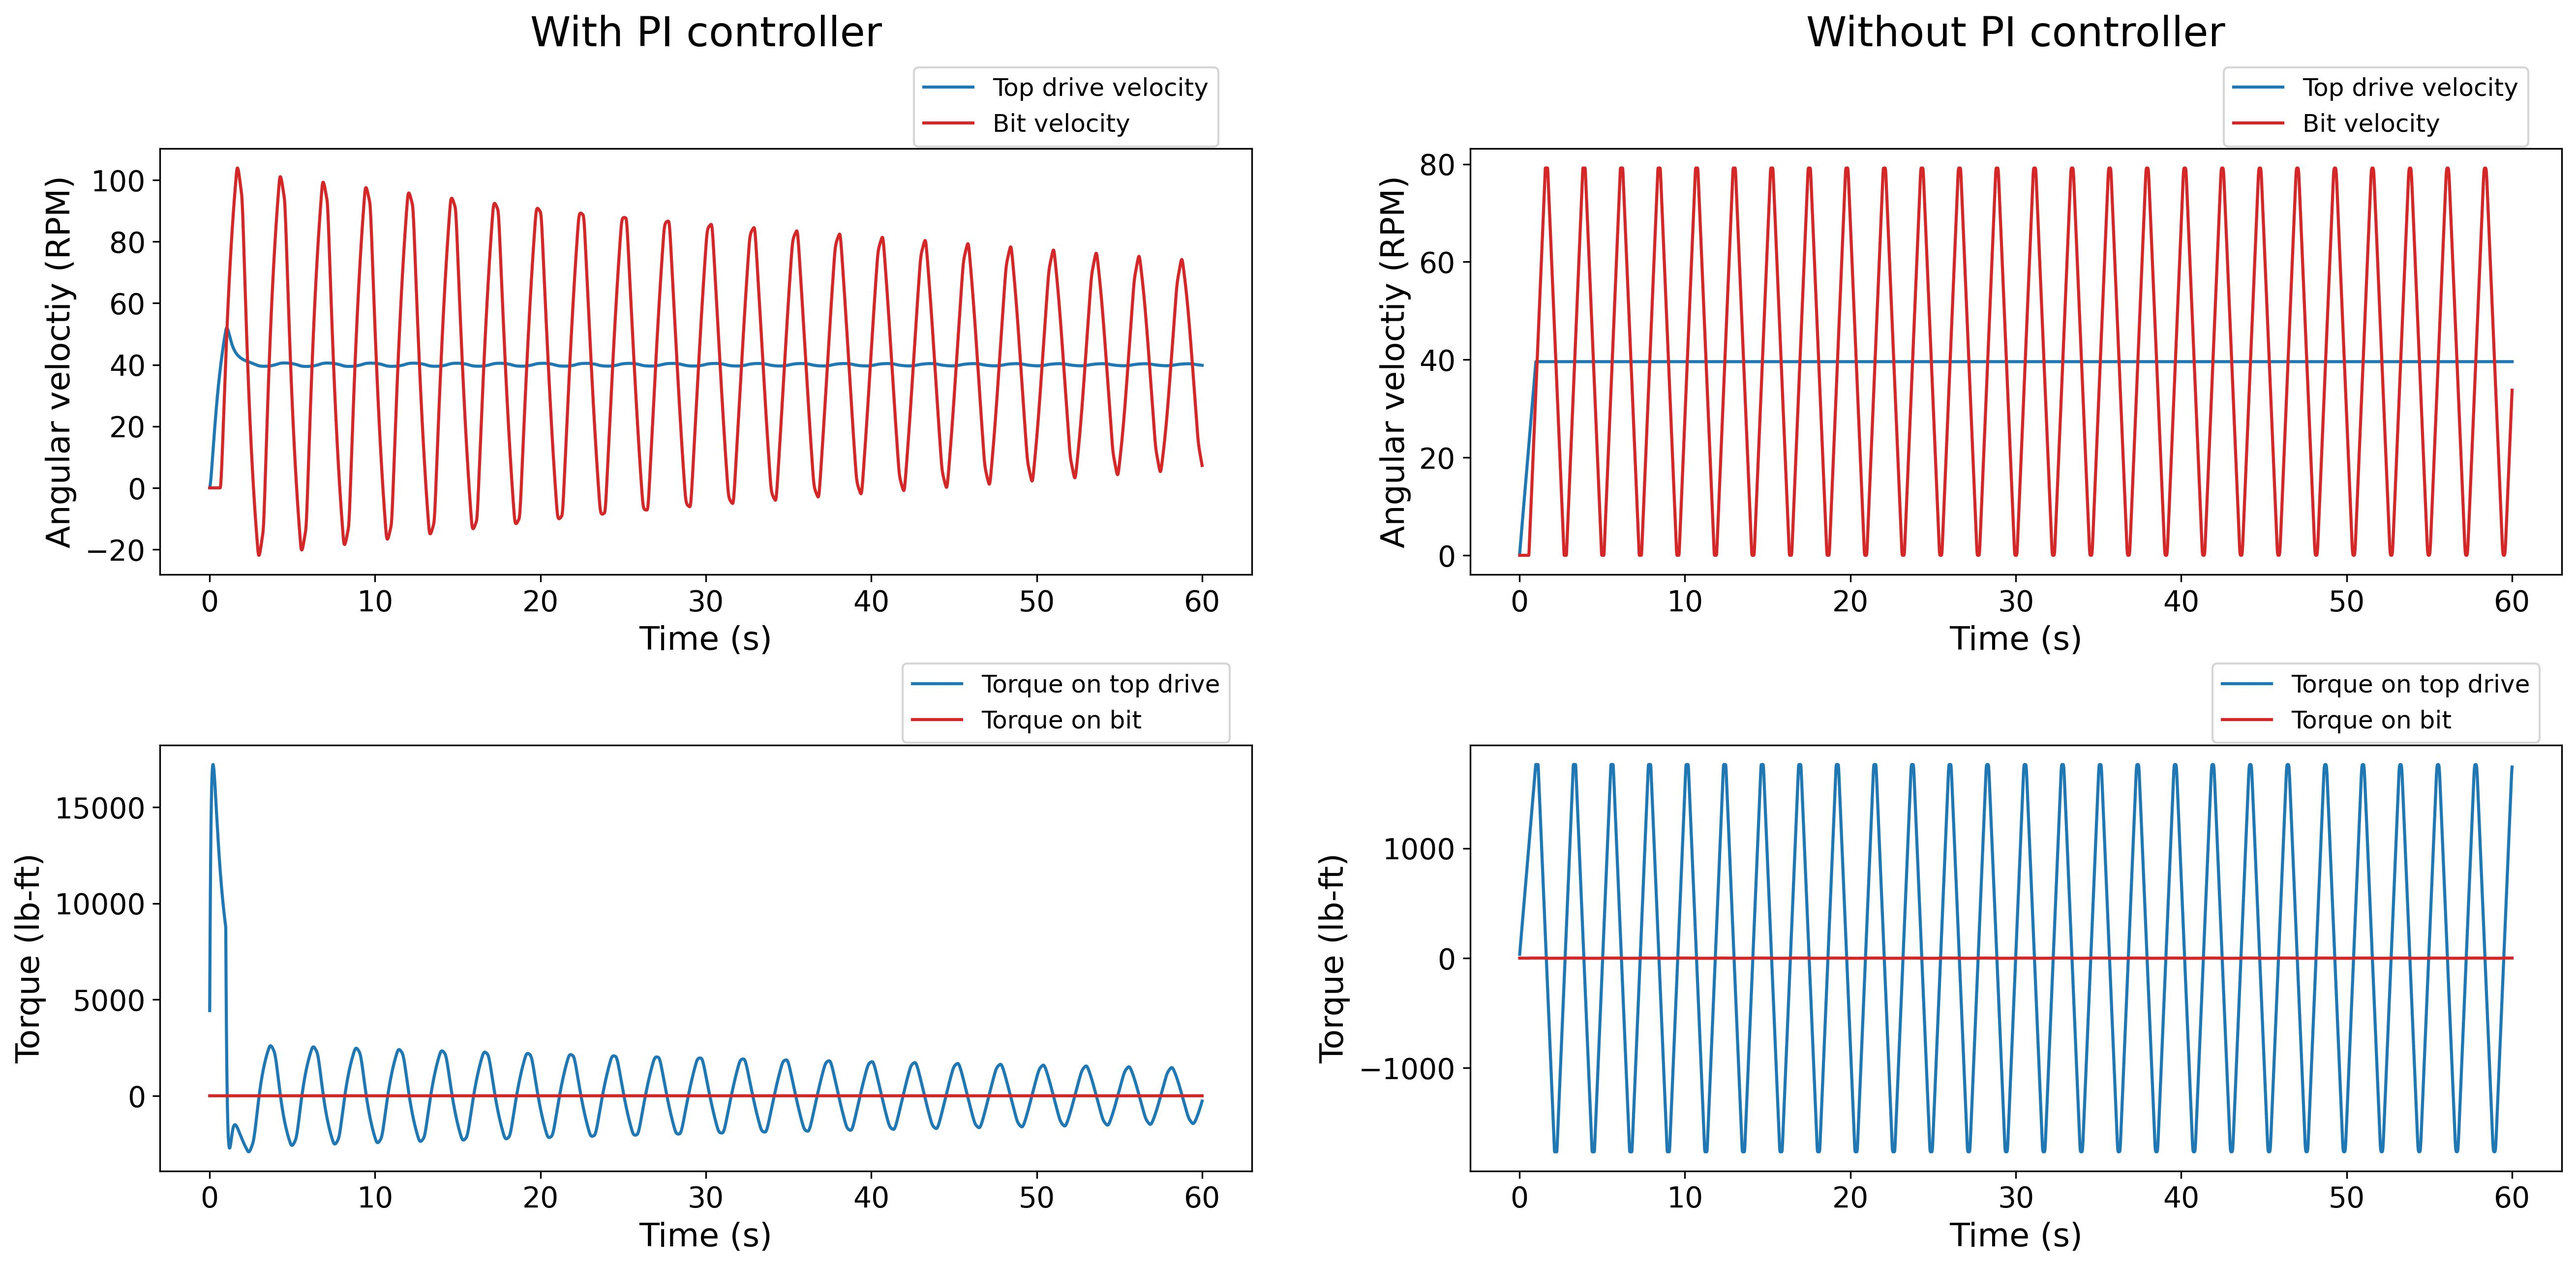
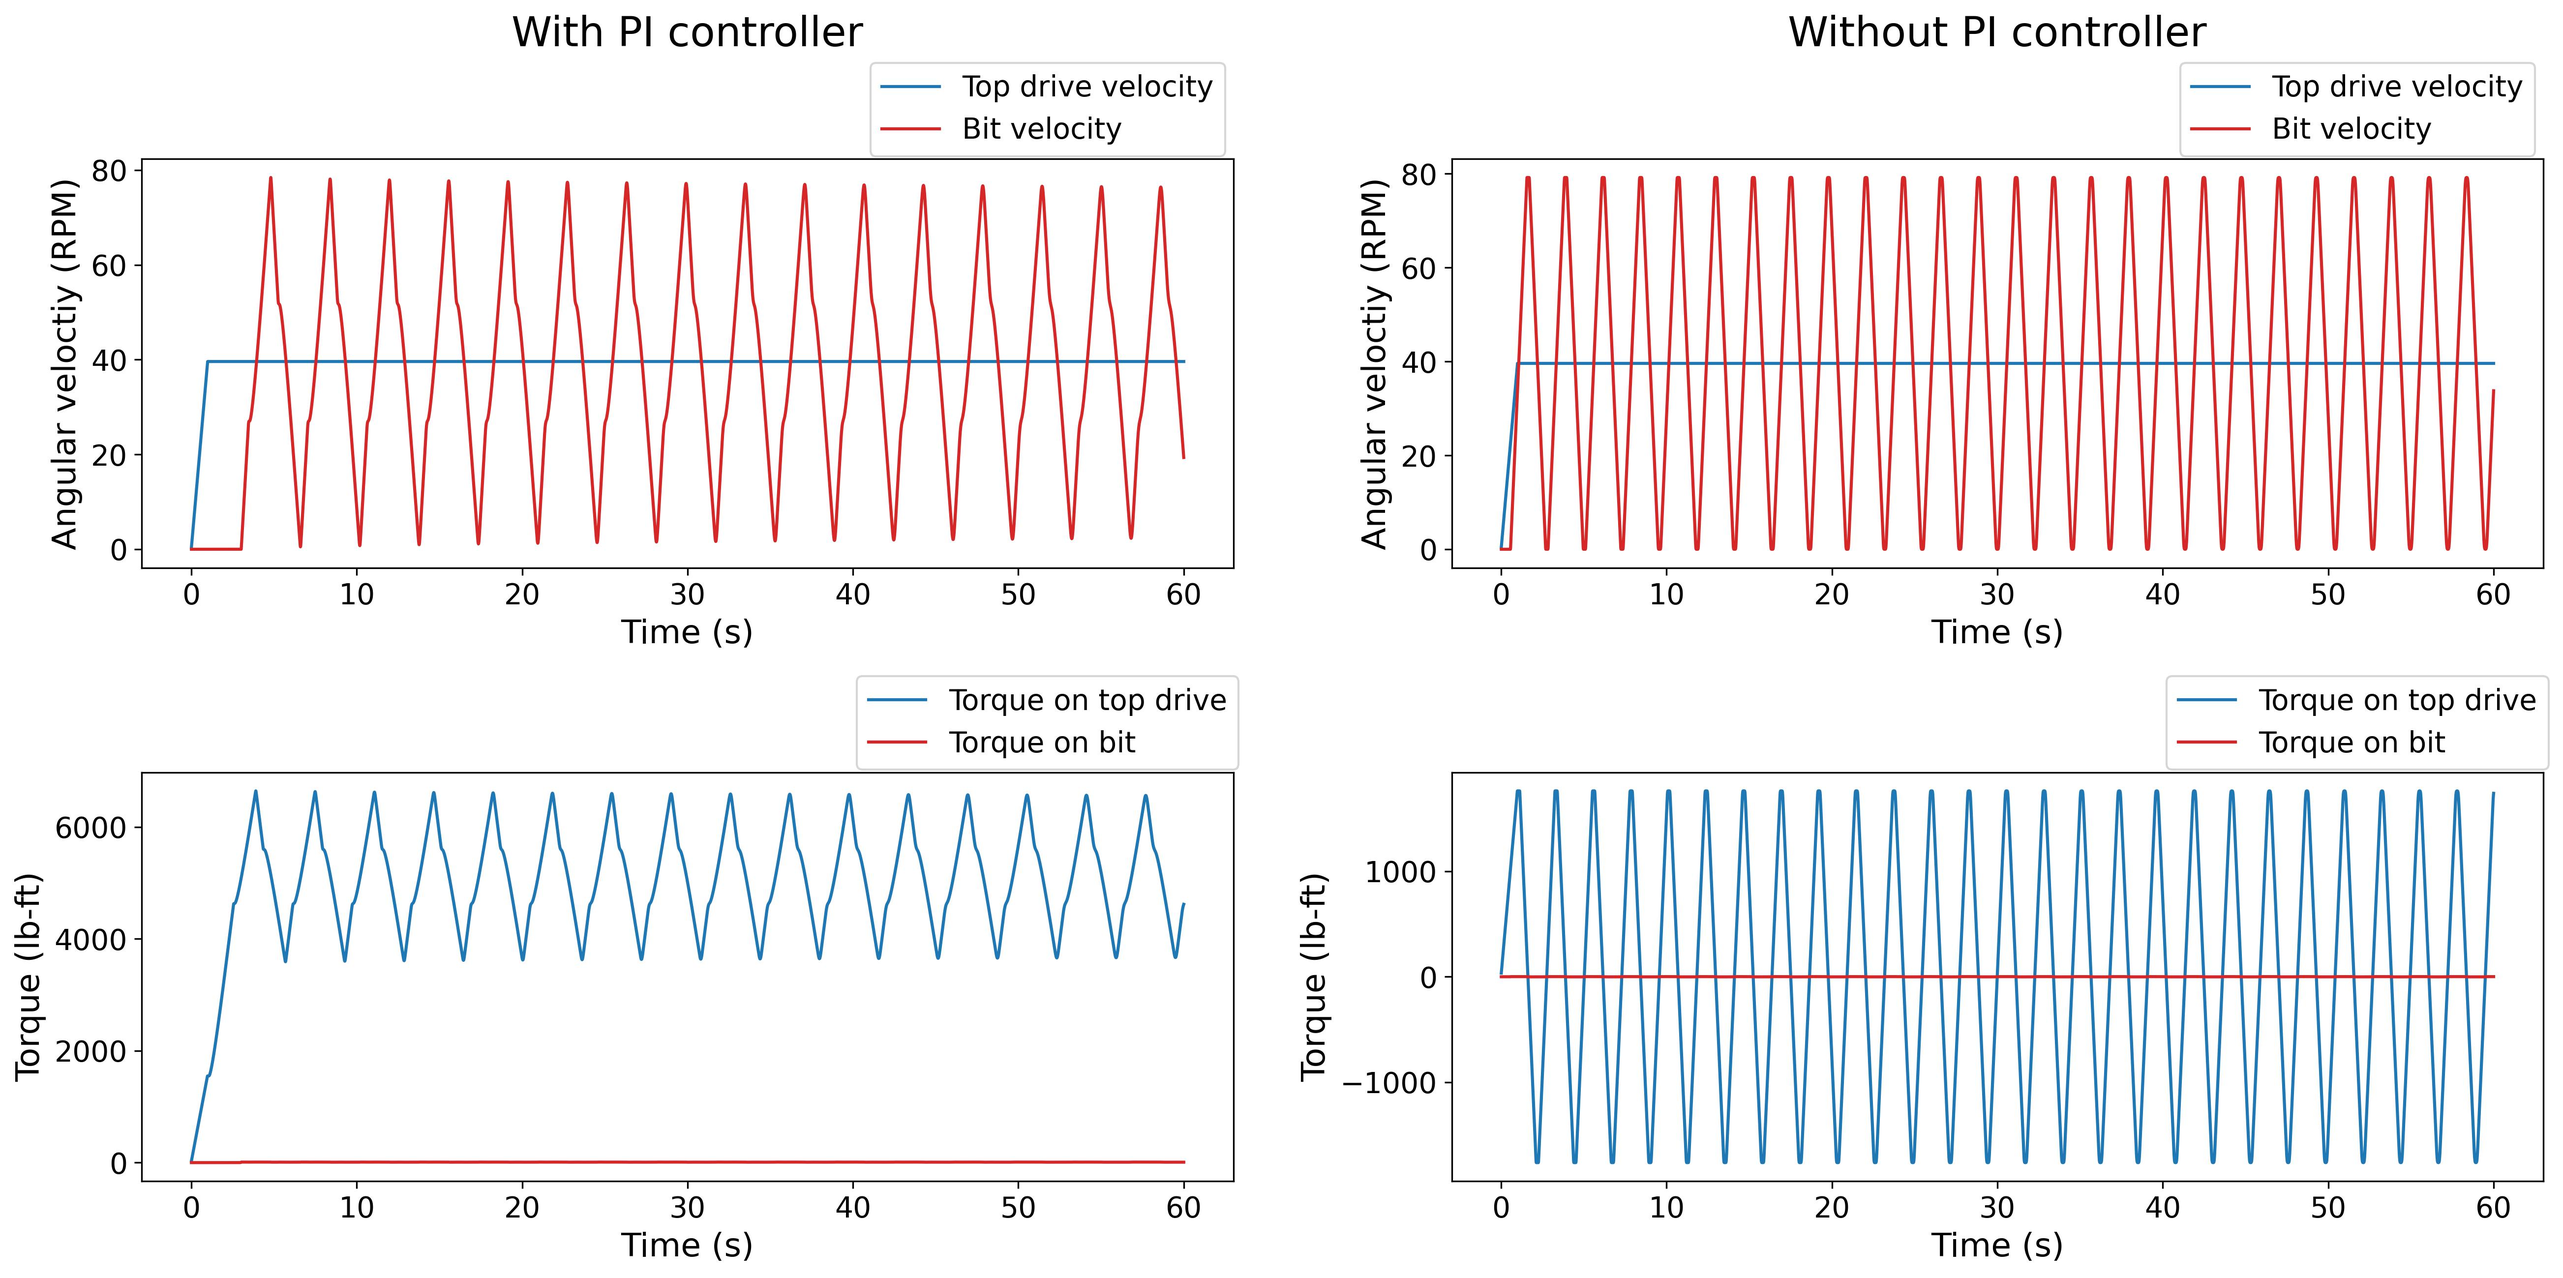
Addressing the commnets

diff --git a/src/Results and Comparisons.tex b/src/Results and Comparisons.tex
@@ -21,7 +21,7 @@ This Chapter contains results from both A-S and ExxonMobil models for all the Te
         Test Case 4b & Deviated (60\textdegree{}) & 0.5 & 0.25 & O \\                                                     
         \hline
     \end{tabular}
-    \caption[Input parameters of Aarsnes-Shor model (Python ver.)]{Input parameters of Aarsnes-Shor model. Well trajectory, top drive set velocity, and bit constant are the additional parameters not included in this table.}
+    \caption[Summary of characteristics of each Test Case]{Summary of characteristics of each Test Case.}
     \label{Test_case_summary}
 \end{table} 
 
@@ -37,7 +37,7 @@ The results for Test Case 1 in each model are depicted in \figurename~\ref{figur
 \begin{figure}
   \centering
   \includegraphics[width=6.5in]{overlapped_figureTestCase1}
-  \caption[Comparison of the results for Test Case 1]{Comparison between the results from A-S model (MATLAB ver.) and ExxonMobil model for Test Case 1.}\label{figure_testcase1_overlapped}
+  \caption[Comparison of the results for Test Case 1]{Comparison between the results from A-S model (MATLAB ver.) and ExxonMobil model for Test Case 1. The fundamental vibration frequency are 0.43 for both case }\label{figure_testcase1_overlapped}
 \end{figure}
 
 \section{Test Case 2}
@@ -135,17 +135,17 @@ The comparison between A-S, and ExxonMobil model are illustrated in \figurename~
         \hline
         \textbf{Test Cases} & \textbf{Frequency (Hz)} & \textbf{Max top drive torque (lb-ft)} & \textbf{Max bit velocity (RPM)}\\
         \hline
-        Test Case 1 & 0.433 & 1762 & 79\\
+        Test Case 1 & 0.440 & 1762 & 79\\
         \hline
         Test Case 2a & 0.283 & 6643 & 78\\
         \hline
-        Test Case 2b & 0.283 & 5184 & 106\\ 
+        Test Case 2b & 0.280 & 5184 & 106\\ 
         \hline
-        Test Case 3 & 0.417 & 1844 & 80 \\                                                  
+        Test Case 3 & 0.420 & 1844 & 80 \\                                                  
         \hline
-        Test Case 4a & 0.267 & 8083 & 78 \\                                                   
+        Test Case 4a & 0.268 & 8083 & 78 \\                                                   
         \hline
-        Test Case 4b & 0.267 & 7056 & 116\\                                                       
+        Test Case 4b & 0.268 & 7056 & 116\\                                                       
         \hline
     \end{tabular}
     \caption[Input parameters of Aarsnes-Shor model (Python ver.)]{Input parameters of Aarsnes-Shor model. Well trajectory, top drive set velocity, and bit constant are the additional parameters not included in this table.}
@@ -158,17 +158,17 @@ The comparison between A-S, and ExxonMobil model are illustrated in \figurename~
         \hline
         \textbf{Test Cases} & \textbf{Frequency (Hz)} & \textbf{Max top drive torque (lb-ft)} & \textbf{Max bit velocity (RPM)}\\
         \hline
-        Test Case 1  & 0.433 & 1814 & 81\\
+        Test Case 1  & 0.427 & 1814 & 81\\
         \hline
-        Test Case 2a  & 0.267 & 6891 & 79\\
+        Test Case 2a  & 0.272 & 6891 & 79\\
         \hline
-        Test Case 2b  & 0.267 & 5539 & 115\\ 
+        Test Case 2b  & 0.269 & 5539 & 115\\ 
         \hline
-        Test Case 3  & 0.400 & 1841 & 81\\                                                  
+        Test Case 3  & 0.408 & 1841 & 81\\                                                  
         \hline
-        Test Case 4a  & 0.267 & 8379 & 79\\                                                   
+        Test Case 4a  & 0.260 & 8379 & 79\\                                                   
         \hline
-        Test Case 4b & 0.267 & 5825 & 96\\                                                       
+        Test Case 4b & 0.260 & 5825 & 96\\                                                       
         \hline
     \end{tabular}
     \caption[Input parameters of Aarsnes-Shor model (Python ver.)]{Input parameters of Aarsnes-Shor model. Well trajectory, top drive set velocity, and bit constant are the additional parameters not included in this table.}
